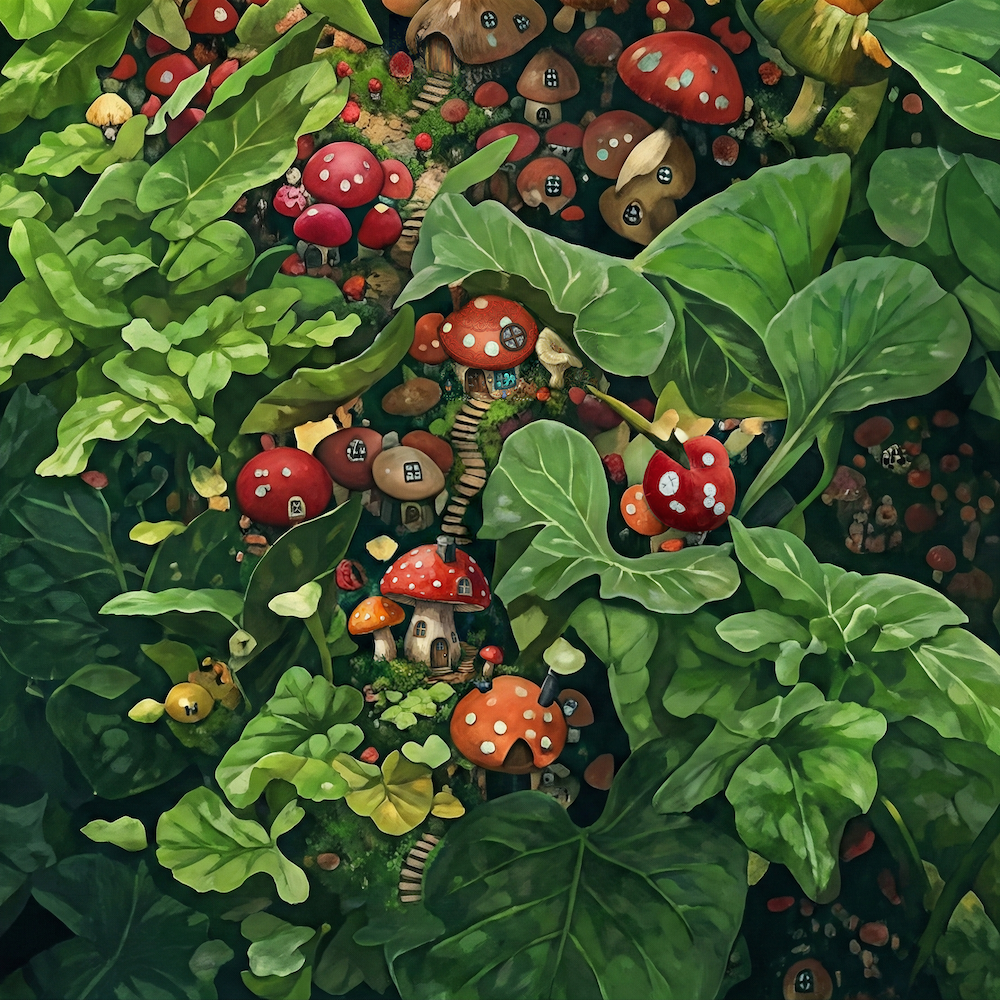
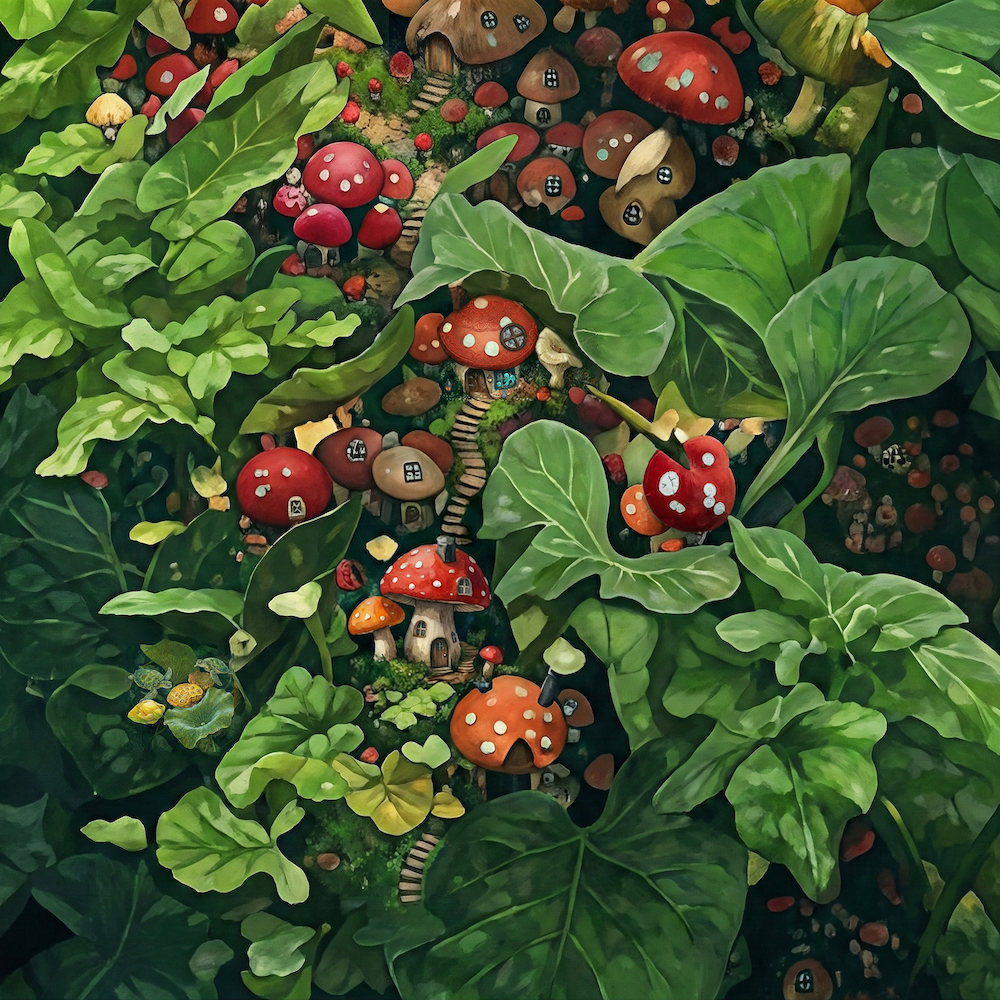
5

Changed region(s): [[0.124, 0.651, 0.248, 0.744]]

diff --git a/scenes.js b/scenes.js
@@ -25,6 +25,7 @@ window.gameData = {
             { top: '30.0%', left: '43.8%', width: '10.2%', height: '10.2%', target: 'mushroomhouse' },
             { top: '32.7%', left: '53.2%', width: '6.7%', height: '6.7%', target: 'whitemush' },
             { top: '43.2%', left: '64.0%', width: '10.3%', height: '10.3%', target: 'plush' },
+            { top: '64.0%', left: '12.3%', width: '11.3%', height: '11.3%', target: 'lotus' },
         ]
     },
     'chestnut': {
@@ -97,6 +98,10 @@ window.gameData = {
         hotspots: []
     },
     'greenmonster': {
+        type: 'cinematic',
+        hotspots: []
+    },
+    'lotus': {
         type: 'cinematic',
         hotspots: []
     },
